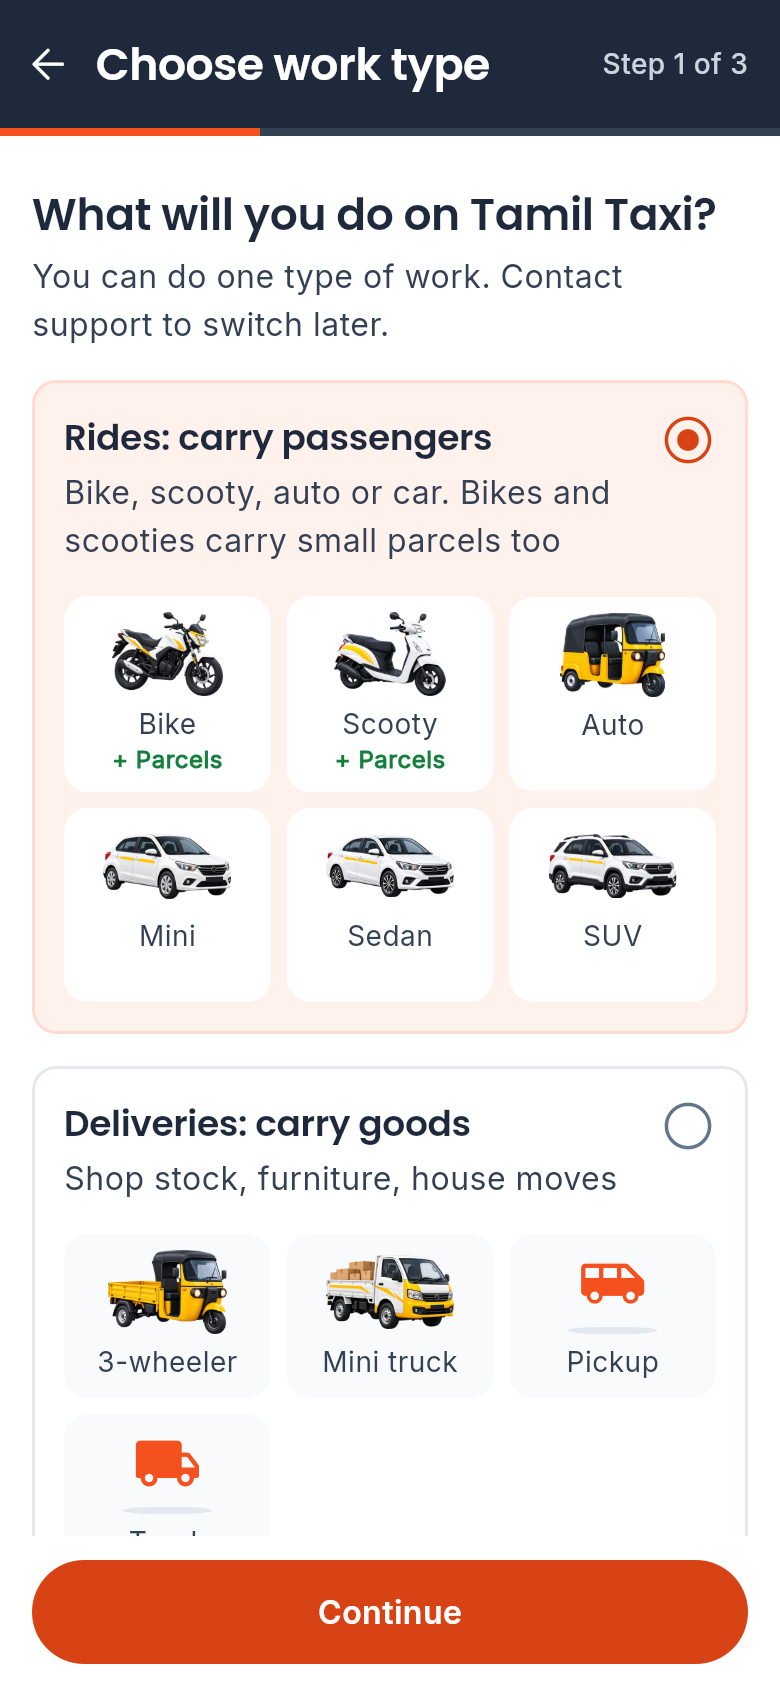
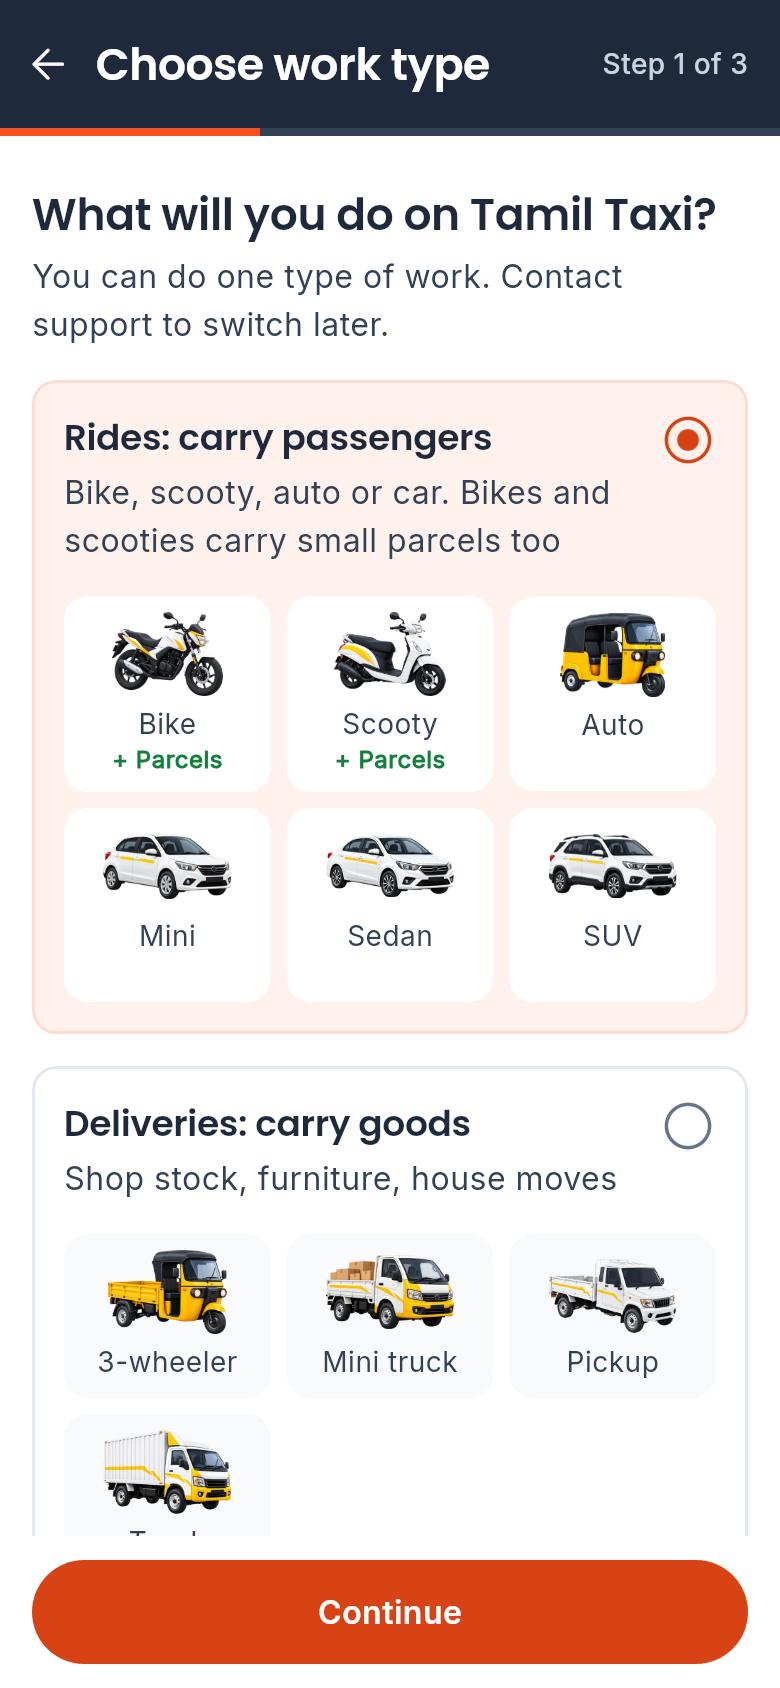
feat(ui): pickup and truck pictures
The owner's pickup and box-truck renders, built into 360 px WebPs like
the others; VehicleArt now has a picture for every vehicle (parcel
home, PP-06, house shifting, D-04 / D-05, upcoming bookings).

The renders came with the transparency checkerboard painted in (RGB,
no alpha): scripts/vehicle_icons/checker_cutout.py removes it (both
checker greys in a window + flood fill from the border), tints the
pickup's see-through panes like glass and clears the background inside
its roll bar. Screenshots refreshed.

Changed region(s): [[0.7077, 0.7393, 0.8615, 0.8009], [0.1231, 0.8318, 0.3077, 0.8934]]

diff --git a/packages/tamiltaxi_ui/lib/src/vehicle_ui.dart b/packages/tamiltaxi_ui/lib/src/vehicle_ui.dart
@@ -41,8 +41,8 @@ extension VehicleKindUi on VehicleKind {
         _ => null,
       };
 
-  /// The 3/4 render in `assets/vehicles/` (built by scripts/vehicle_icons/build.py), or null for vehicles that have
-  /// none yet (pickup, truck), which show [icon] instead.
+  /// The 3/4 render in `assets/vehicles/` (built by scripts/vehicle_icons/build.py); every vehicle has one. Nullable so
+  /// a vehicle added later can show [icon] until its render arrives.
   String? get artAsset => switch (this) {
         VehicleKind.bike || VehicleKind.goodsBike => 'packages/tamiltaxi_ui/assets/vehicles/bike.webp',
         VehicleKind.scooty => 'packages/tamiltaxi_ui/assets/vehicles/scooty.webp',
@@ -53,7 +53,8 @@ extension VehicleKindUi on VehicleKind {
         VehicleKind.suv => 'packages/tamiltaxi_ui/assets/vehicles/suv.webp',
         VehicleKind.threeWheeler => 'packages/tamiltaxi_ui/assets/vehicles/three_wheeler.webp',
         VehicleKind.miniTruck => 'packages/tamiltaxi_ui/assets/vehicles/mini_truck.webp',
-        VehicleKind.pickup || VehicleKind.truck => null,
+        VehicleKind.pickup => 'packages/tamiltaxi_ui/assets/vehicles/pickup.webp',
+        VehicleKind.truck => 'packages/tamiltaxi_ui/assets/vehicles/truck.webp',
       };
 
   /// Marker glyph class for the map.

diff --git a/apps/passenger/lib/features/parcel/pp06_choose_goods_vehicle_screen.dart b/apps/passenger/lib/features/parcel/pp06_choose_goods_vehicle_screen.dart
@@ -154,7 +154,7 @@ class _PP06ChooseGoodsVehicleScreenState extends ConsumerState<PP06ChooseGoodsVe
                           for (final q in quotes) ...[
                             VehicleOptionCard(
                               icon: q.vehicle.kind.icon,
-                              // Pictures where there are renders (bike, 3-wheeler, mini truck); the symbol tile else.
+                              // The vehicle's render (every goods vehicle has one); the symbol tile for one without.
                               art: q.vehicle.kind.artAsset != null ? VehicleArt(q.vehicle.kind) : null,
                               name: q.vehicle.name,
                               subtitle: _subtitle(q, s.outstation),

diff --git a/scripts/vehicle_icons/checker_cutout.py b/scripts/vehicle_icons/checker_cutout.py
@@ -1,0 +1,82 @@
+"""Cuts a render out of a painted checkerboard "transparent" background (an RGB file, no alpha). Pure PIL.
+
+Image generators often paint the transparency checkerboard into the picture. It is a mix of two greys (dark
+~140-155, light ~195-211) in ~11 px squares. A pixel is background when the window around it holds enough of BOTH
+greys (a uniform grey panel holds only one) and it connects to the image border; the band next to the vehicle, where
+the window also sees the vehicle, is grown back pixel by pixel while both greys are still close by.
+
+Per render: [holes] are background the vehicle encloses (inside a roll bar), [windows] are panes the render paints as
+see-through: the checker in them becomes cabin grey and the pane is tinted like the other renders' glass.
+"""
+from PIL import Image, ImageChops, ImageDraw, ImageFilter
+
+GLASS = (30, 38, 50)
+CABIN = (128, 134, 142)
+
+
+def _thr(im, lo, hi=255):
+    return im.point(lambda v: 255 if lo <= v <= hi else 0)
+
+
+def _frac(mask, radius):
+    """Share of [mask] pixels in a (2r+1)² window, 0-255."""
+    return mask.filter(ImageFilter.BoxBlur(radius))
+
+
+def _polygon(size, points):
+    m = Image.new('L', size, 0)
+    ImageDraw.Draw(m).polygon(points, fill=255)
+    return m
+
+
+def cutout(path, windows=(), holes=()):
+    """The render at [path] as RGBA with the checkerboard removed, trimmed to the vehicle."""
+    rgb = Image.open(path).convert('RGB')
+    r, g, b = rgb.split()
+    L = rgb.convert('L')
+    sat = ImageChops.subtract(ImageChops.lighter(ImageChops.lighter(r, g), b), ImageChops.darker(ImageChops.darker(r, g), b))
+    grey = _thr(sat, 0, 24)
+    dark = ImageChops.multiply(_thr(L, 126, 174), grey)
+    light = ImageChops.multiply(_thr(L, 180, 226), grey)
+    pix = ImageChops.lighter(dark, light)
+
+    def mixed(d, l, radius, each, total=0.0):
+        fd, fl = _frac(d, radius), _frac(l, radius)
+        both = ImageChops.multiply(_thr(fd, round(each * 255)), _thr(fl, round(each * 255)))
+        return ImageChops.multiply(both, _thr(ImageChops.add(fd, fl), round(total * 255)))
+
+    core = mixed(dark, light, 7, 0.20, 0.70)
+    # The window test is cut short at the image edge: there any checker grey counts (the border is background).
+    w, h = rgb.size
+    edge = Image.new('L', rgb.size, 255)
+    edge.paste(0, (12, 12, w - 12, h - 12))
+    core = ImageChops.lighter(core, ImageChops.multiply(edge, pix))
+    near = ImageChops.multiply(mixed(dark, light, 5, 0.10), pix)  # both greys within ~11 px: still checker
+
+    pad = Image.new('L', (w + 2, h + 2), 255)
+    pad.paste(core, (1, 1))
+    ImageDraw.floodfill(pad, (0, 0), 128, thresh=0)
+    bg = pad.crop((1, 1, w + 1, h + 1)).point(lambda v: 255 if v == 128 else 0)
+    for poly in holes:
+        bg = ImageChops.lighter(bg, ImageChops.multiply(_polygon(rgb.size, poly), near))
+    for _ in range(24):
+        grown = ImageChops.lighter(bg, ImageChops.multiply(bg.filter(ImageFilter.MaxFilter(3)), near))
+        if ImageChops.difference(grown, bg).getbbox() is None:
+            break
+        bg = grown
+
+    out = rgb.copy()
+    # Seen through glass the checker is lighter (~165-210): look for that mix too.
+    gdark = ImageChops.multiply(_thr(L, 158, 189), grey)
+    glight = ImageChops.multiply(_thr(L, 191, 224), grey)
+    gpix = ImageChops.multiply(mixed(gdark, glight, 5, 0.15), ImageChops.lighter(gdark, glight))
+    for poly in windows:
+        pane = _polygon(rgb.size, poly)
+        seen = ImageChops.multiply(pane, ImageChops.lighter(near, gpix).filter(ImageFilter.MaxFilter(3)))
+        out.paste(Image.new('RGB', rgb.size, CABIN), mask=seen.filter(ImageFilter.GaussianBlur(1.2)))
+        out.paste(Image.new('RGB', rgb.size, GLASS), mask=pane.point(lambda v: v * 80 // 100).filter(ImageFilter.GaussianBlur(1)))
+
+    alpha = ImageChops.invert(bg).filter(ImageFilter.MinFilter(3)).filter(ImageFilter.GaussianBlur(0.9))
+    out = out.convert('RGBA')
+    out.putalpha(alpha)
+    return out.crop(alpha.point(lambda a: 255 if a > 16 else 0).getbbox())

diff --git a/scripts/vehicle_icons/build.py b/scripts/vehicle_icons/build.py
@@ -3,15 +3,18 @@
     python3 scripts/vehicle_icons/build.py            # writes packages/tamiltaxi_ui/assets/vehicles/<kind>.webp
     python3 scripts/vehicle_icons/build.py --preview  # also build/vehicle_icons/preview.png (light + dark cards)
 
-Each render is a transparent PNG. The script trims it to the vehicle, paints a plain dark badge over a real car
+Each render is a transparent PNG, or an RGB one with the transparency checkerboard painted in (pickup, truck), which
+checker_cutout.py removes first. The script trims it to the vehicle, paints a plain dark badge over a real car
 maker's logo (the repo is public: no trademarks in the app), and saves a small WebP (alpha kept) for
 `VehicleArt` in packages/tamiltaxi_ui. Renders that aren't listed here (van, MPV, luxury, roof-sign taxi) are kept
-for tiers that may come later. Pickup and truck have no render yet (the apps show their symbol).
+for tiers that may come later.
 """
 import os
 import sys
 
 from PIL import Image, ImageDraw
+
+from checker_cutout import cutout
 
 ROOT = os.path.dirname(os.path.dirname(os.path.dirname(os.path.abspath(__file__))))
 SRC = os.path.join(ROOT, 'docs', 'design', 'vechile')
@@ -28,6 +31,20 @@ VEHICLES = {
     'suv': ('White SUV Taxi with Yellow Stripe.png', []),
     'three_wheeler': ('Yellow Cargo Tuk-Tuk Delivery Vehicle.png', []),
     'mini_truck': ('White and Yellow Mini Cargo Truck.png', []),
+    'pickup': ('White Pickup Truck with Yellow Stripes (checker).png', []),
+    'truck': ('White and Yellow Box Truck (checker).png', []),
+}
+
+# Checkerboard renders: what checker_cutout needs per render, in render px.
+CHECKER = {
+    'pickup': {
+        'windows': [
+            [(893, 252), (1256, 247), (1352, 446), (942, 456)],  # windshield
+            [(712, 237), (842, 236), (884, 424), (700, 422)],  # door window
+        ],
+        'holes': [[(591, 148), (992, 148), (992, 232), (626, 232), (606, 342), (591, 342)]],  # inside the roll bar
+    },
+    'truck': {},
 }
 
 WIDTH = 360  # px; cards draw them at up to ~96 logical px wide, so this is enough for 3x screens
@@ -50,7 +67,8 @@ def cover_logo(im, cx, cy, rx, ry):
 
 
 def build(name, render, logos):
-    im = Image.open(os.path.join(SRC, render)).convert('RGBA')
+    path = os.path.join(SRC, render)
+    im = cutout(path, **CHECKER[name]) if name in CHECKER else Image.open(path).convert('RGBA')
     for logo in logos:
         cover_logo(im, *logo)
     bbox = im.getchannel('A').point(lambda a: 255 if a > 8 else 0).getbbox()

diff --git a/docs/tech-docs/using.tech.md b/docs/tech-docs/using.tech.md
@@ -3,7 +3,7 @@
 Single technical reference for the Tamil Taxi monorepo. Keep it current: update this file whenever the stack, services,
 environment variables, commands or infrastructure change.
 
-Last updated: 2 Oct 2026 (house shifting goes only to movers who switched it on with enough helpers, see 6h; prices per city: admin › City › Rentals & more sets rentals, outstation, goods to another town and house shifting prices, `CityModePricing`, `GET /fares/rates`, see 6i; driver app: house shifting request cards, D-21c move details and items, D-22c price lines; rider app: house shifting PH-01 … PH-05 with typed items, goods to another town on PP-01 / PP-06, "I'm receiving it myself" and Save as on PP-03, load beds on PP-06, see 6h; API: goods to another town (one way, by the km) and house shifting (`POST /fares/shifting-quote`, `Trip.shifting`, scheduled parcels), admin House shifting card, see 6h; driver app: rental / outstation request cards with the pickup time of trips booked ahead, voice line, rental clock on D-18c, fare lines on D-19c, see 6g; rider app: Rental (P-34) and Outstation (P-35 / P-35b) from Home, booking for later with P-36 "You're booked" and Upcoming on Home and Activity, mode fares mirrored in `ride_modes.dart` against the shared `ride_mode_cases.json`, see 6g; screen transitions: one slide-and-fade for every page in both apps, see 7e; API: cab rentals (hourly packages), outstation one way / round trip and trips booked for later (`SCHEDULED`), see 6g; nearby vehicles on rider maps (`GET /drivers/nearby`, no ids, ~55 m grid) and coloured top-down markers; ride tiers Scooty, Auto Priority, Sedan, SUV beside Bike, Auto and Mini (`CAB`), see 6f; driver sign-up: OTP → one D-07 Registration page (vehicle card + checklist, review and rejections on the same page) until approval, D-10 / S-09 removed, sign-up step bar aligned left; no built-in city: place search, area names, map starts and app messages come from the `City` rows (`serviceCitiesProvider`, `CityDefaults`, admin `cityView`); maps re-fit to `fitPoints` whenever they or the visible area change; rider splash intro: P-01 plays a 2 s animation from the native splash frame: the icon's kolam ring draws itself, the x's lane dashes glide, the tagline rises (`KolamRing`, `TtAppName.laneShift`, `SimTimings.intro`); passenger home: the Ride sheet ends in line art of Tamil Nadu under "#NammaOoru · Made in Coimbatore" (`HomeFooter`, SVG via flutter_svg, drawn by `scripts/footer_art/build.py`), `MapBottomSheet.footer` slot; maps: hexes only, no circles anywhere: mock demand map and S-08 service area as H3-sized hexes (`hex_grid.dart`), S-01 search area as hex cells, hex "location lost" marker (the search radar pulse stays round), `MapZone` circles removed from `TtMap`; app screen audit fixes: chips / labels cut off on P-08, P-10, P-25, D-03a, D-14, D-14b, attributions under the status bar, PP-07 pickup under the sheet, rider privacy text and chat header no longer claim masked numbers, old "r" mark on the driver UPI QR and `RD-` trip codes, D-26 document count; `docs/design` is now screenshots of the apps, refreshed with `scripts/export_design.py`; admin dashboard: Needs attention strip + Today / People & places sections; admin global search: Ctrl+K palette over `GET /admin/search`; admin driver + account pages: More menu (edit, push, take offline, block), Driver profile / Account tabs, Notes + History cards, Remind on Approvals; admin people API: notes, activity history, direct push, driver detail edits, take offline; admin list views: status tabs with counts, sort, more filters, 20 / 50 / 100 rows, phone search ignoring spaces and +91, lean list queries + indexes; sidebar regrouped into collections (Overview, Drivers, Riders, Trips, Money, Platform, System; collapsible), Settings section chips + find; driver approval switch `driverAutoApprove` + Drivers › Approvals queue with bulk approve, hold / reject reasons pushed to the driver; 30 Sep: public website `apps/web`: static Next.js export with home, privacy policy, terms and account deletion pages for Google Play; pink Butterfly band on driver request cards for women-preferred and women-only trips; back fixed on the driver OTP screens; driver request cards swipe right to accept / left to decline, rail icons for best ₹/km, closest pickup, parcel, Butterfly, Verified; Go To / Stay In bar on the driver request screen; driver Home: Go To / Stay In row and sheet with saved areas, Parcels too switch, mixed ride/parcel request stacks; rider adds extra (+₹10/20/30) to a search nobody took, shown to drivers as "₹50 + ₹20"; parcel on bike: bike drivers also get goods-bike parcels unless they switch it off; Stay In and saved areas in driver booking preferences; kolam app icons + matching native/Flutter splash, overlay notification icon fix; 29 Sep: renamed Rido → Tamil Taxi: packages, app IDs `com.tamiltaxi.*`, `Tt*` widgets, `TT_*` defines, database `tamiltaxi`; new logo in `TtWordmark`; open-source repo: AGPL-3.0, contributor docs, CI, COST_AND_SCALING.md; DEV_OTP_CODE for dev-mode sign-in; bike taxi and auto test drivers; stacked requests shown as a comparison list with a ring rail; stacked driver requests: up to 3 open at once, chips to switch, accepting one releases the rest; driver booking preferences: go home, farthest pickup, trip length, filtered in dispatch; driver requests: swipe to accept and read aloud in English / Tamil; D-07 per-document cards + Help button; nearest high-demand area on driver Home with area names and directions; test drivers seeder for cab, goods bike, truck, mini truck and pickup; driver ETAs for P-10 and dispatch in one Route Matrix call; place search restricted to the service area with each suggestion's distance from the pickup; "Near KG Hospital" pickup landmarks from Google address descriptors, stored as `Trip.pickupLandmark` for the driver; traffic-aware travel time on P-10 / PP-06 (`travelMin`, fare unchanged); fare routes use the shortest of Google's alternatives; routes snap pickup / drop to a road a vehicle can stop on (vehicleStopover), fare screen reloads when a stop changes; "Did you reach safely?" after night rides; route deviation + night checks on the quoted route; stop detection during rides with an "Is everything OK?" check; server SOS + admin SOS page; live trip share links + public /track page; dispatch ranks drivers by 7-day offer record and idle time; driver cancellation-rate nudge and temporary pause; cancellation fee, off by default; cancellation fault verdict from signals; waiting charge after the free minutes at the pickup; fare sanity flags at completion + admin "Mark reviewed" and GPS path map; trip GPS breadcrumbs and actual distance; driver state cached in Redis for the GPS path; rich driver GPS fixes + offline buffer with batch upload; trip timeout jobs: not moving, no-show wait, stuck trips; driver cancel finds another driver; OTP out of driver step responses; structured cancellations with codes; durable Redis job runner for dispatch timers; trip race / OTP / rating / GPS-trust fixes; no default peak markup, surge before the minimum fare, notifier never crashes the API)
+Last updated: 2 Oct 2026 (pickup and truck pictures, cut out of their painted checkerboard by `scripts/vehicle_icons/checker_cutout.py`; house shifting goes only to movers who switched it on with enough helpers, see 6h; prices per city: admin › City › Rentals & more sets rentals, outstation, goods to another town and house shifting prices, `CityModePricing`, `GET /fares/rates`, see 6i; driver app: house shifting request cards, D-21c move details and items, D-22c price lines; rider app: house shifting PH-01 … PH-05 with typed items, goods to another town on PP-01 / PP-06, "I'm receiving it myself" and Save as on PP-03, load beds on PP-06, see 6h; API: goods to another town (one way, by the km) and house shifting (`POST /fares/shifting-quote`, `Trip.shifting`, scheduled parcels), admin House shifting card, see 6h; driver app: rental / outstation request cards with the pickup time of trips booked ahead, voice line, rental clock on D-18c, fare lines on D-19c, see 6g; rider app: Rental (P-34) and Outstation (P-35 / P-35b) from Home, booking for later with P-36 "You're booked" and Upcoming on Home and Activity, mode fares mirrored in `ride_modes.dart` against the shared `ride_mode_cases.json`, see 6g; screen transitions: one slide-and-fade for every page in both apps, see 7e; API: cab rentals (hourly packages), outstation one way / round trip and trips booked for later (`SCHEDULED`), see 6g; nearby vehicles on rider maps (`GET /drivers/nearby`, no ids, ~55 m grid) and coloured top-down markers; ride tiers Scooty, Auto Priority, Sedan, SUV beside Bike, Auto and Mini (`CAB`), see 6f; driver sign-up: OTP → one D-07 Registration page (vehicle card + checklist, review and rejections on the same page) until approval, D-10 / S-09 removed, sign-up step bar aligned left; no built-in city: place search, area names, map starts and app messages come from the `City` rows (`serviceCitiesProvider`, `CityDefaults`, admin `cityView`); maps re-fit to `fitPoints` whenever they or the visible area change; rider splash intro: P-01 plays a 2 s animation from the native splash frame: the icon's kolam ring draws itself, the x's lane dashes glide, the tagline rises (`KolamRing`, `TtAppName.laneShift`, `SimTimings.intro`); passenger home: the Ride sheet ends in line art of Tamil Nadu under "#NammaOoru · Made in Coimbatore" (`HomeFooter`, SVG via flutter_svg, drawn by `scripts/footer_art/build.py`), `MapBottomSheet.footer` slot; maps: hexes only, no circles anywhere: mock demand map and S-08 service area as H3-sized hexes (`hex_grid.dart`), S-01 search area as hex cells, hex "location lost" marker (the search radar pulse stays round), `MapZone` circles removed from `TtMap`; app screen audit fixes: chips / labels cut off on P-08, P-10, P-25, D-03a, D-14, D-14b, attributions under the status bar, PP-07 pickup under the sheet, rider privacy text and chat header no longer claim masked numbers, old "r" mark on the driver UPI QR and `RD-` trip codes, D-26 document count; `docs/design` is now screenshots of the apps, refreshed with `scripts/export_design.py`; admin dashboard: Needs attention strip + Today / People & places sections; admin global search: Ctrl+K palette over `GET /admin/search`; admin driver + account pages: More menu (edit, push, take offline, block), Driver profile / Account tabs, Notes + History cards, Remind on Approvals; admin people API: notes, activity history, direct push, driver detail edits, take offline; admin list views: status tabs with counts, sort, more filters, 20 / 50 / 100 rows, phone search ignoring spaces and +91, lean list queries + indexes; sidebar regrouped into collections (Overview, Drivers, Riders, Trips, Money, Platform, System; collapsible), Settings section chips + find; driver approval switch `driverAutoApprove` + Drivers › Approvals queue with bulk approve, hold / reject reasons pushed to the driver; 30 Sep: public website `apps/web`: static Next.js export with home, privacy policy, terms and account deletion pages for Google Play; pink Butterfly band on driver request cards for women-preferred and women-only trips; back fixed on the driver OTP screens; driver request cards swipe right to accept / left to decline, rail icons for best ₹/km, closest pickup, parcel, Butterfly, Verified; Go To / Stay In bar on the driver request screen; driver Home: Go To / Stay In row and sheet with saved areas, Parcels too switch, mixed ride/parcel request stacks; rider adds extra (+₹10/20/30) to a search nobody took, shown to drivers as "₹50 + ₹20"; parcel on bike: bike drivers also get goods-bike parcels unless they switch it off; Stay In and saved areas in driver booking preferences; kolam app icons + matching native/Flutter splash, overlay notification icon fix; 29 Sep: renamed Rido → Tamil Taxi: packages, app IDs `com.tamiltaxi.*`, `Tt*` widgets, `TT_*` defines, database `tamiltaxi`; new logo in `TtWordmark`; open-source repo: AGPL-3.0, contributor docs, CI, COST_AND_SCALING.md; DEV_OTP_CODE for dev-mode sign-in; bike taxi and auto test drivers; stacked requests shown as a comparison list with a ring rail; stacked driver requests: up to 3 open at once, chips to switch, accepting one releases the rest; driver booking preferences: go home, farthest pickup, trip length, filtered in dispatch; driver requests: swipe to accept and read aloud in English / Tamil; D-07 per-document cards + Help button; nearest high-demand area on driver Home with area names and directions; test drivers seeder for cab, goods bike, truck, mini truck and pickup; driver ETAs for P-10 and dispatch in one Route Matrix call; place search restricted to the service area with each suggestion's distance from the pickup; "Near KG Hospital" pickup landmarks from Google address descriptors, stored as `Trip.pickupLandmark` for the driver; traffic-aware travel time on P-10 / PP-06 (`travelMin`, fare unchanged); fare routes use the shortest of Google's alternatives; routes snap pickup / drop to a road a vehicle can stop on (vehicleStopover), fare screen reloads when a stop changes; "Did you reach safely?" after night rides; route deviation + night checks on the quoted route; stop detection during rides with an "Is everything OK?" check; server SOS + admin SOS page; live trip share links + public /track page; dispatch ranks drivers by 7-day offer record and idle time; driver cancellation-rate nudge and temporary pause; cancellation fee, off by default; cancellation fault verdict from signals; waiting charge after the free minutes at the pickup; fare sanity flags at completion + admin "Mark reviewed" and GPS path map; trip GPS breadcrumbs and actual distance; driver state cached in Redis for the GPS path; rich driver GPS fixes + offline buffer with batch upload; trip timeout jobs: not moving, no-show wait, stuck trips; driver cancel finds another driver; OTP out of driver step responses; structured cancellations with codes; durable Redis job runner for dispatch timers; trip race / OTP / rating / GPS-trust fixes; no default peak markup, surge before the minimum fare, notifier never crashes the API)
 
 ---
 
@@ -1014,12 +1014,13 @@ tier per city (City › Fares).
   shows all ride and goods vehicles three to a row, D-05 offers Bike, Scooty, Auto, Mini, Sedan and SUV (never Auto
   Priority); S-01 suggests the two nearest tiers.
 - **Vehicle pictures:** `VehicleArt(kind)` (tamiltaxi_ui) draws the 3/4 render from `assets/vehicles/<kind>.webp`
-  (`VehicleKindUi.artAsset`) or, for goods vehicles without one yet (pickup, truck), the coral
-  symbol over a ground shadow. Used on P-10 (`VehicleOptionCard.art`), P-11, P-12, PP-01 / PP-06 / PP-07
-  (`ParcelVehicleArt`), D-02, D-04, D-05, D-07, D-11 and the design board. Renders exist for every ride tier, the goods
-  bike (the bike), the 3-wheeler and the mini truck; pickup and truck still show the symbol. The renders are the owner's (`docs/design/vechile/`, kept local: some show real makers' logos);
+  (`VehicleKindUi.artAsset`); a vehicle without one would show the coral symbol over a ground shadow. Used on P-10 (`VehicleOptionCard.art`), P-11, P-12, PP-01 / PP-06 / PP-07
+  (`ParcelVehicleArt`), D-02, D-04, D-05, D-07, D-11 and the design board. Renders exist for every vehicle (pickup and truck since 2 Oct
+  2026). The renders are the owner's (`docs/design/vechile/`, kept local: some show real makers' logos);
   `scripts/vehicle_icons/build.py` trims them, paints a plain badge over a real logo and writes 360 px WebPs (~20–35
-  KB each).
+  KB each). Renders delivered with the transparency checkerboard painted in (pickup, truck: RGB, no alpha) are cut out
+  first by `scripts/vehicle_icons/checker_cutout.py` (both checker greys in a window + flood fill from the border;
+  per-render `windows` panes are tinted like glass, `holes` are enclosed background such as inside the roll bar).
 - **Nearby vehicles on the rider's maps (RedTaxi / Rapido style):** `GET /v1/drivers/nearby?lat&lng[&trip=PARCEL]`
   (signed-in users) → `{vehicles: [{kind, lat, lng, heading}]}`: up to 15 free drivers within 3 km, at most 4 of each
   vehicle so the map shows the mix, nearest first (`nearby-vehicles.ts`). **No driver ids**; positions snapped to a
